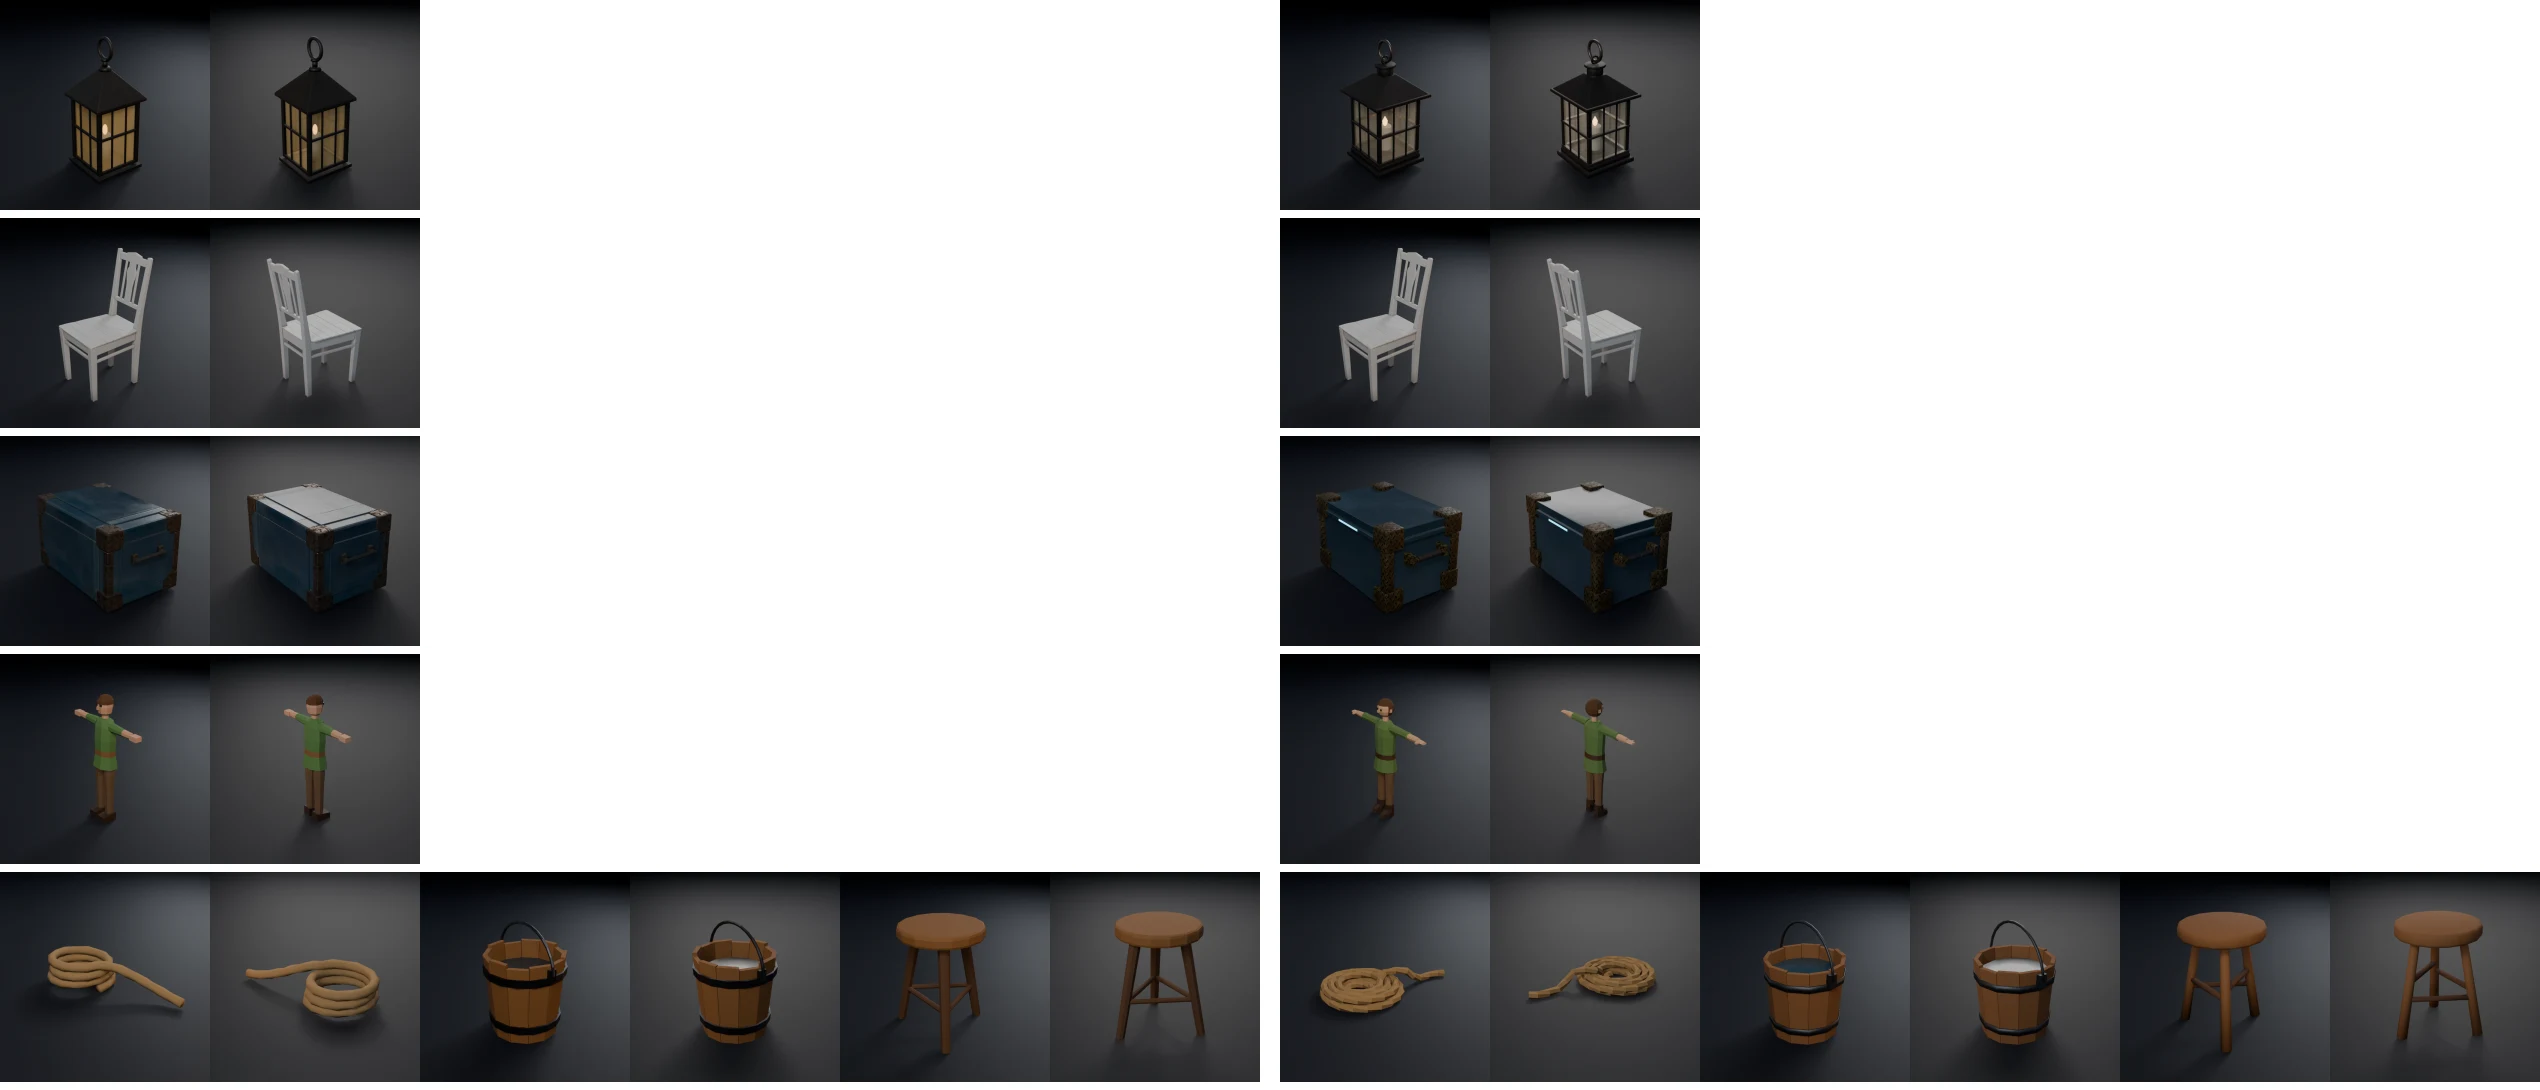
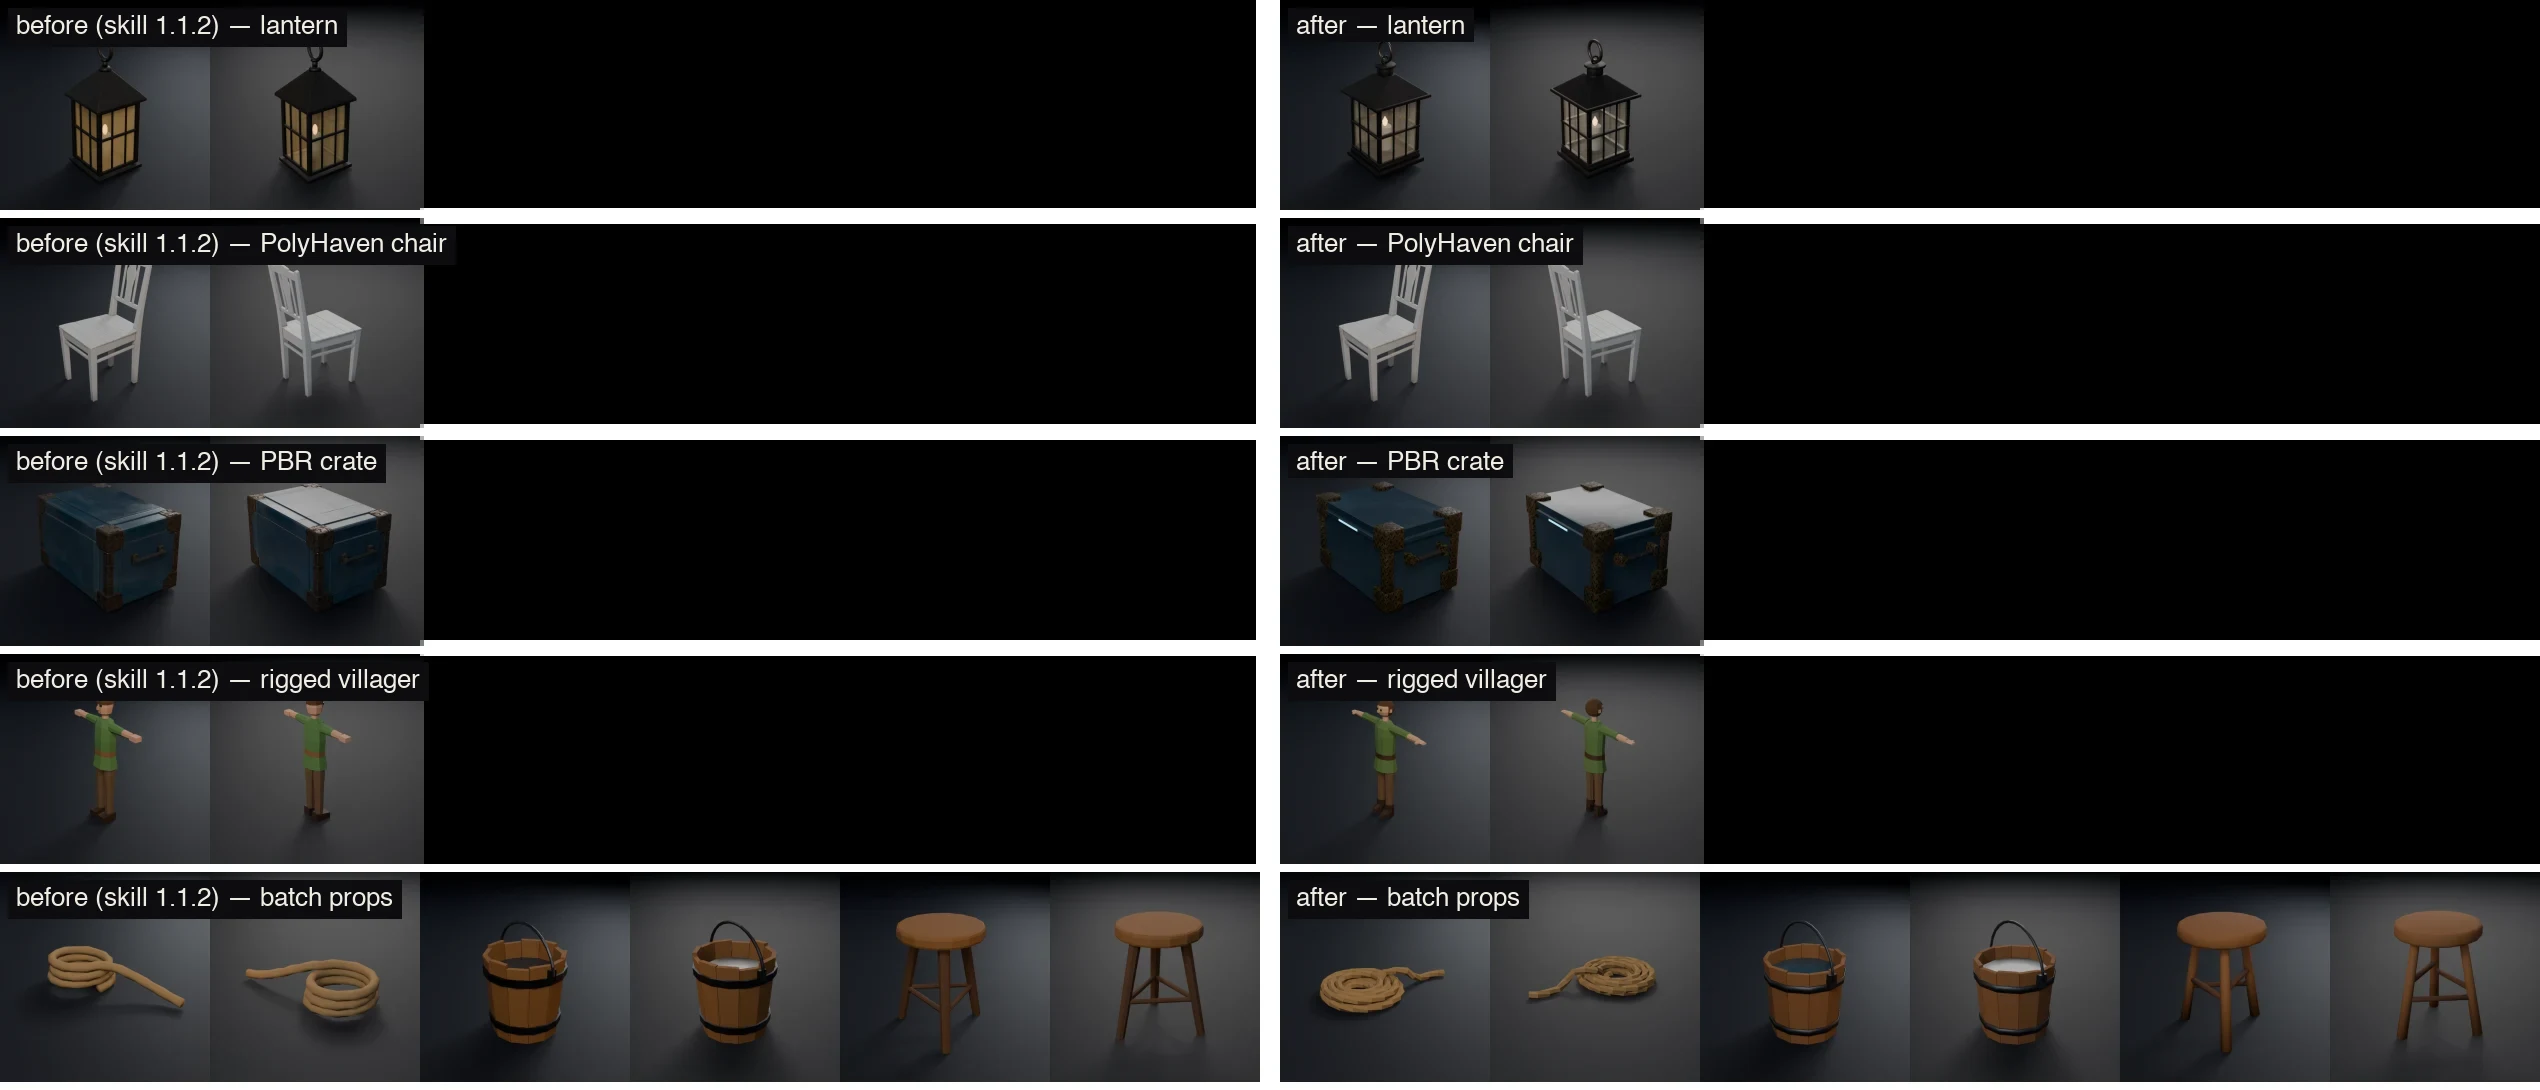
Label every comparison image, on the image and under it
A reader could not tell kiln from img2threejs, or before from after. The
three sheets the benchmarks page shows (and the Lab MCP's) now carry each
column's name burned in, so the label survives outside the page - on a
site, in a post - and each has a caption giving the order and the angle.

diff --git a/docs/benchmarks.md b/docs/benchmarks.md
@@ -54,7 +54,8 @@ PBR texturing, a rigged character, batch mode. Skill 1.1.2 against the current b
 | Defects the measure found | 2 → 1 (a stool 6 mm below the ground) | 2 → **0** |
 | Cost for the five | $6.49 → $7.34 (+13 %) | $5.82 → $7.81 (+34 %) |
 
-<p align="center"><img src="../bench/results/final/before-after-ahujasid.webp" alt="Six briefs on ahujasid's MCP, before (left) and after (right)" width="100%" /></p>
+<p align="center"><img src="../bench/results/final/before-after-ahujasid.webp" alt="Five briefs on ahujasid's MCP: before on the left half, after on the right half" width="100%" /></p>
+<p align="center"><sub><b>Left half: before</b> (skill 1.1.2) · <b>right half: after</b>. One row per brief — lantern, PolyHaven chair, PBR crate, rigged villager, batch props — each object rendered from two angles under the same studio light. The Lab MCP's sheet: <a href="../bench/results/final/before-after-lab.webp">before-after-lab.webp</a>.</sub></p>
 
 No visual regression on either server. The skill now does the work it used to skip —
 optimization, validation, re-checks — and pays for it in turns.
@@ -87,7 +88,8 @@ Details: [`bench/results/mcp-comparison-2026-09-29.md`](../bench/results/mcp-com
 One reference — Poly Haven's `Lantern_01` preview, photographed from about 15° above — and the
 same brief each time. Each version is the skill after the previous one's findings.
 
-<p align="center"><img src="../bench/results/lantern-iterations/v7-control.webp" alt="Reference, v3, v6 re-exported, v7 and an image-to-code tool, under the same studio light" width="100%" /></p>
+<p align="center"><img src="../bench/results/lantern-iterations/v7-control.webp" alt="Top row: the reference photo, kiln v3, kiln v6 re-exported, kiln v7, img2threejs. Bottom row: close-ups of the top" width="100%" /></p>
+<p align="center"><sub><b>Top row, left to right:</b> the reference photo · kiln v3 · kiln v6 re-exported · kiln v7 · img2threejs — all rendered at the photo's ~15° angle under the same studio HDRI. <b>Bottom row:</b> the same versions, close-up on the bail and top loop (the reference crop on the left). Every version up to v6: <a href="../bench/results/lantern-iterations/">lantern-iterations/</a>.</sub></p>
 
 | | truth, 5 views | height vs real | saturation (ref 0.32) | tris | cost |
 |---|---:|---:|---:|---:|---:|
@@ -135,7 +137,8 @@ layered texture fields, a frosted-glass recipe — were measured and adopted.
 The lantern loop could have fitted the skill to one lantern. The same skill, before and after,
 on two other Poly Haven references:
 
-<p align="center"><img src="../bench/results/generalisation/crate-chair.webp" alt="Reference, before and after, for an ammo box and a gothic chair" width="100%" /></p>
+<p align="center"><img src="../bench/results/generalisation/crate-chair.webp" alt="For an ammo box (top) and a gothic chair (bottom): the reference photo, kiln before the lantern loop, kiln after" width="100%" /></p>
+<p align="center"><sub><b>Left to right:</b> the reference photo · kiln before the lantern loop · kiln after. <b>Top:</b> Poly Haven's ammo_box. <b>Bottom:</b> Poly Haven's WoodenChair_01.</sub></p>
 
 | | truth | height vs real | cost |
 |---|---:|---:|---:|
